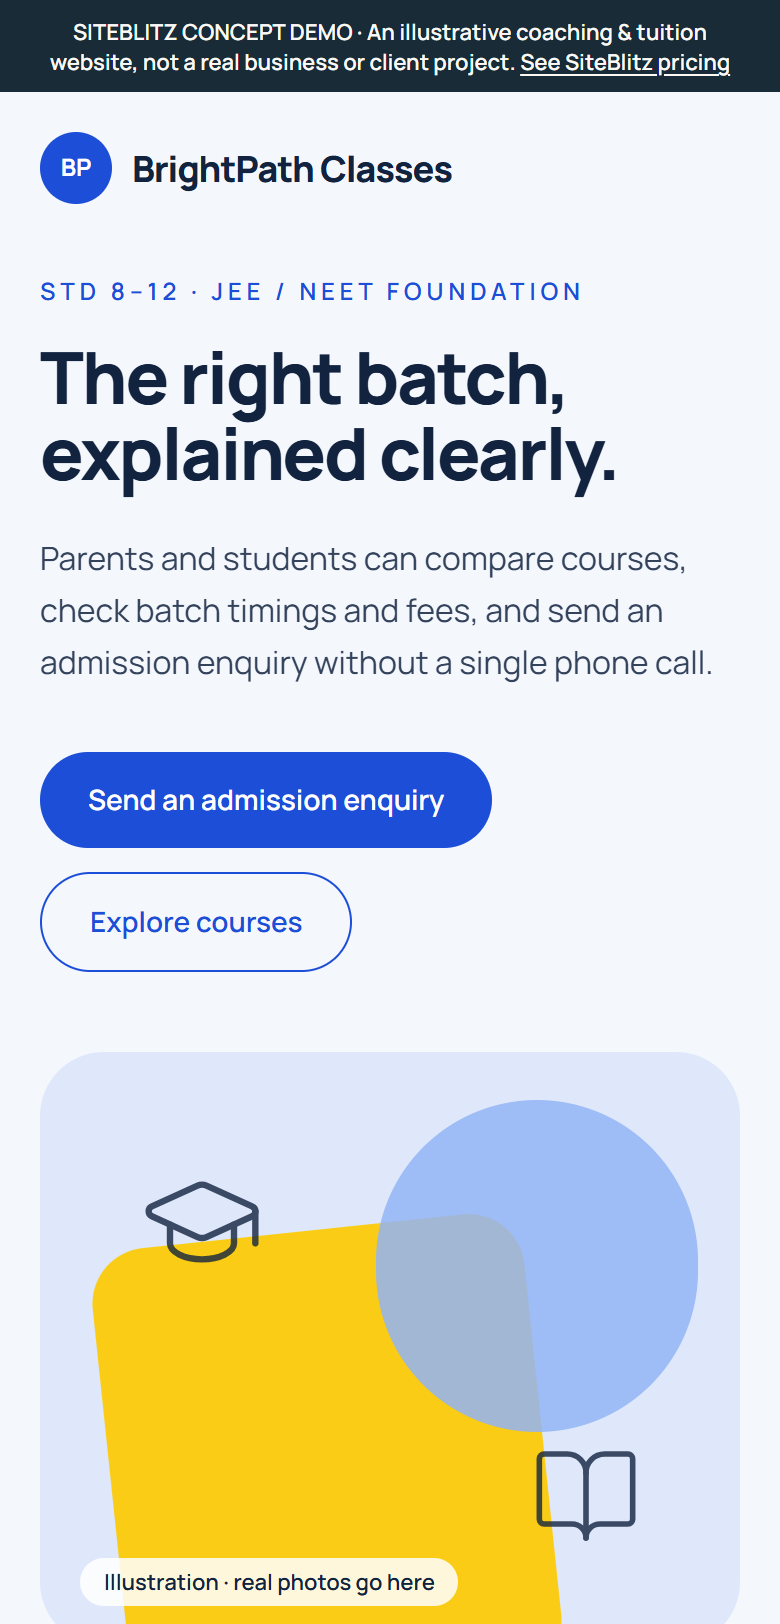
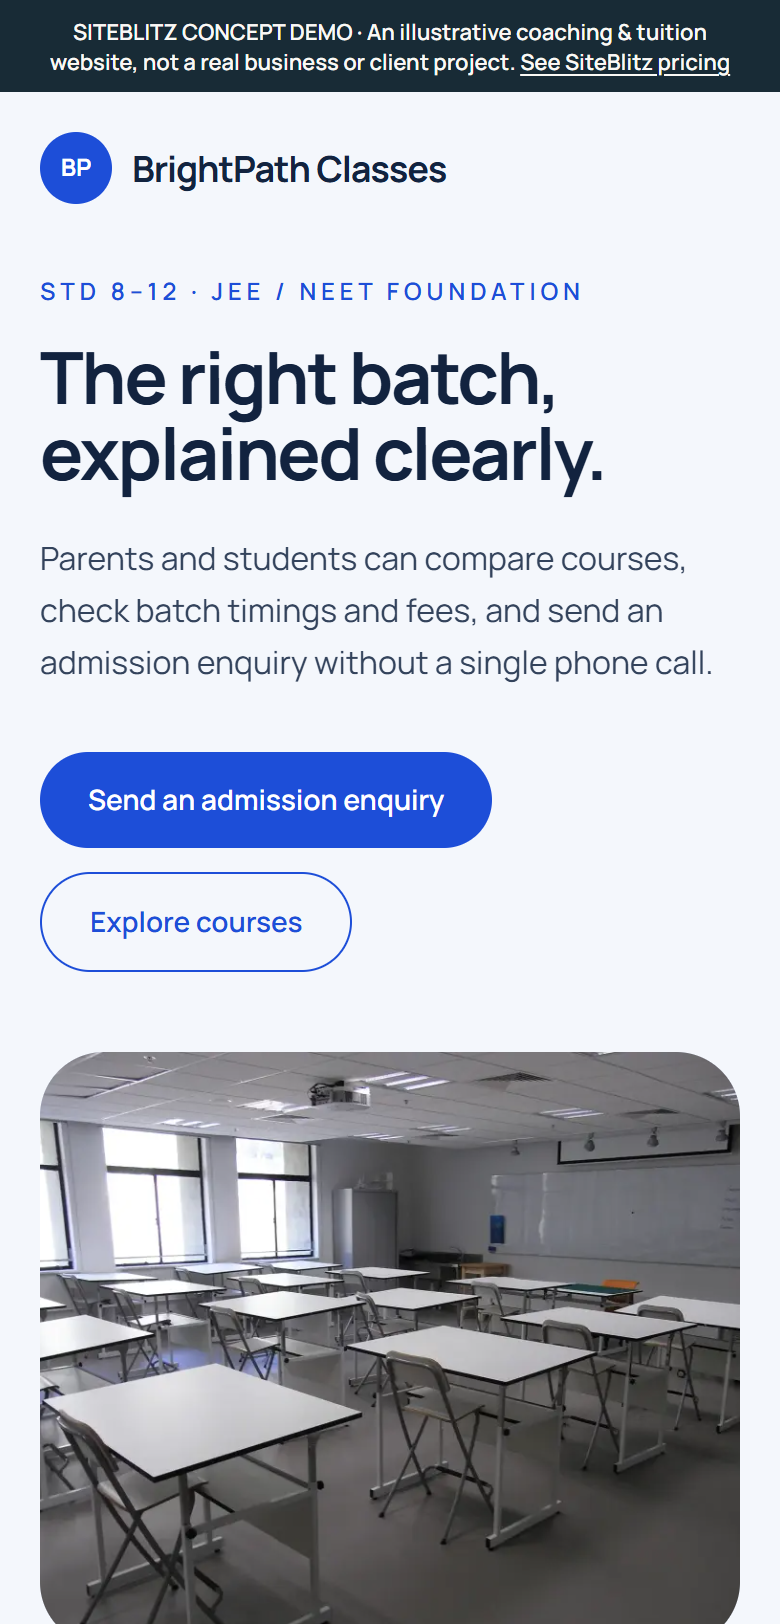
demos: real licensed photographs replace the illustration slots; credits line; new demo screenshots

diff --git a/src/components/demo/DemoSite.tsx b/src/components/demo/DemoSite.tsx
@@ -1,21 +1,20 @@
+import Image from "next/image";
 import Link from "next/link";
-import { BookOpen, CalendarClock, GraduationCap, Lamp, MapPin, Scissors, Sofa, Sparkles } from "lucide-react";
+import { CalendarClock, MapPin } from "lucide-react";
 import type { Demo } from "@/lib/demos";
+import { PHOTOS } from "@/lib/photos";
 import { SITE } from "@/lib/site";
 import { FROM_PRICE, inr } from "@/lib/offer";
+import { PhotoCredits } from "@/components/site/PhotoCredits";
 import { DemoEnquiry } from "./DemoEnquiry";
-
-const ART = {
-  salon: [Scissors, Sparkles],
-  coaching: [GraduationCap, BookOpen],
-  showroom: [Sofa, Lamp],
-} as const;
 
 /** One fictional business website, rendered from src/lib/demos.ts. Deliberately not wrapped in the
  *  SiteBlitz Shell: it must look like a client's own site, with SiteBlitz present only in the ribbon
- *  and the closing call to action. */
+ *  and the closing call to action. Photographs are licensed stand-ins (src/lib/photos.ts), never the
+ *  fictional business's own premises. */
 export function DemoSite({ demo }: { demo: Demo }) {
-  const [IconA, IconB] = ART[demo.id];
+  const hero = PHOTOS[demo.photo];
+  const detail = PHOTOS[demo.detailPhoto];
   return (
     <div className={`${demo.theme} demo-root min-h-screen`}>
       <div className="demo-ribbon sticky top-0 z-50 px-4 py-2 text-center text-[11px] font-semibold leading-snug sm:text-xs">
@@ -52,14 +51,16 @@ export function DemoSite({ demo }: { demo: Demo }) {
             </a>
           </div>
         </div>
-        <div className="demo-art relative aspect-[4/3.4] overflow-hidden rounded-[2rem]" aria-hidden>
-          <div className="demo-art-shape-a absolute" />
-          <div className="demo-art-shape-b absolute" />
-          <IconA className="demo-art-icon absolute left-[14%] top-[18%] h-16 w-16 md:h-20 md:w-20" strokeWidth={1.2} />
-          <IconB className="demo-art-icon absolute bottom-[16%] right-[14%] h-14 w-14 md:h-16 md:w-16" strokeWidth={1.2} />
-          <span className="demo-art-label absolute bottom-5 left-5 rounded-full px-3 py-1 text-[11px] font-semibold">
-            Illustration · real photos go here
-          </span>
+        <div className="demo-photo relative aspect-[4/3.4] overflow-hidden rounded-[2rem]">
+          {/* Eager + priority: this frame is the demo's first impression and the screenshot source for the home page */}
+          <Image
+            src={hero.src}
+            alt={hero.alt}
+            fill
+            priority
+            sizes="(min-width: 768px) 45vw, 100vw"
+            className="object-cover"
+          />
         </div>
       </section>
 
@@ -84,15 +85,20 @@ export function DemoSite({ demo }: { demo: Demo }) {
         </div>
       </section>
 
-      <section className="mx-auto max-w-6xl px-5 py-14 md:px-8 md:py-20">
-        <h2 className="demo-heading text-2xl md:text-3xl">{demo.highlightsTitle}</h2>
-        <div className="mt-8 grid gap-4 md:grid-cols-3">
-          {demo.highlights.map((h) => (
-            <div key={h.label} className="demo-soft rounded-2xl p-5">
-              <p className="font-bold">{h.label}</p>
-              <p className="mt-1.5 text-sm leading-relaxed opacity-85">{h.value}</p>
-            </div>
-          ))}
+      <section className="mx-auto grid max-w-6xl items-center gap-10 px-5 py-14 md:grid-cols-[1fr_1.1fr] md:px-8 md:py-20">
+        <div className="demo-photo relative aspect-[4/3] overflow-hidden rounded-[2rem]">
+          <Image src={detail.src} alt={detail.alt} fill sizes="(min-width: 768px) 45vw, 100vw" className="object-cover" />
+        </div>
+        <div>
+          <h2 className="demo-heading text-2xl md:text-3xl">{demo.highlightsTitle}</h2>
+          <div className="mt-8 grid gap-4">
+            {demo.highlights.map((h) => (
+              <div key={h.label} className="demo-soft rounded-2xl p-5">
+                <p className="font-bold">{h.label}</p>
+                <p className="mt-1.5 text-sm leading-relaxed opacity-85">{h.value}</p>
+              </div>
+            ))}
+          </div>
         </div>
       </section>
 
@@ -151,6 +157,7 @@ export function DemoSite({ demo }: { demo: Demo }) {
       <footer className="px-5 py-8 text-center text-xs opacity-75 md:px-8">
         SiteBlitz concept demonstration. {demo.brand} is not a real business; no products, services or appointments
         are offered through this page. <Link href="/" className="underline">Return to SiteBlitz</Link>
+        <PhotoCredits ids={[demo.photo, demo.detailPhoto]} className="mt-2" />
       </footer>
     </div>
   );

diff --git a/src/lib/photos.ts b/src/lib/photos.ts
@@ -1,0 +1,101 @@
+/**
+ * Every photograph on the public site, with its licence and credit (spec: docs/spec/redesign-v3-motion.md).
+ * All are Wikimedia Commons STAND-INS: licensed photographs of the kind of place, never presented as a
+ * SiteBlitz client or as a real business shown in a demo. Replace them with commissioned or owner photos
+ * when available; keep the credit line in sync (CC BY / CC BY-SA require author + licence + source).
+ */
+
+export type PhotoId =
+  | "heroShop"
+  | "salonInterior"
+  | "salonBasin"
+  | "coachingClassroom"
+  | "coachingChairs"
+  | "showroomInterior"
+  | "showroomDining";
+
+export interface Photo {
+  src: string;
+  width: number;
+  height: number;
+  /** written for this site; the Commons titles name other people's places */
+  alt: string;
+  author: string;
+  licence: "CC0" | "CC BY 2.0" | "CC BY-SA 3.0" | "CC BY-SA 4.0";
+  source: string;
+}
+
+export const PHOTOS: Record<PhotoId, Photo> = {
+  heroShop: {
+    src: "/photos/hero-textile-shop.webp",
+    width: 1920,
+    height: 1280,
+    alt: "Shelves of folded printed cotton fabric in a local textile shop",
+    author: "Ninara",
+    licence: "CC BY 2.0",
+    source: "https://commons.wikimedia.org/wiki/File:Textile_shop_in_Jaipur.jpg",
+  },
+  salonInterior: {
+    src: "/photos/salon-interior.webp",
+    width: 1600,
+    height: 900,
+    alt: "A bright hair salon with tan styling chairs, mirrors and a wooden floor",
+    author: "Daderot",
+    licence: "CC0",
+    source: "https://commons.wikimedia.org/wiki/File:Hair_salon_-_Arlington,_MA.jpg",
+  },
+  salonBasin: {
+    src: "/photos/salon-basin.webp",
+    width: 1600,
+    height: 1200,
+    alt: "A black hair-wash basin at a salon",
+    author: "johnrosman",
+    licence: "CC BY 2.0",
+    source: "https://commons.wikimedia.org/wiki/File:Inside_the_Hair_Salon_(5577833869).jpg",
+  },
+  coachingClassroom: {
+    src: "/photos/coaching-classroom.webp",
+    width: 1600,
+    height: 1200,
+    alt: "An empty classroom with white desks, folding chairs and a whiteboard",
+    author: "Sasa 38300",
+    licence: "CC BY-SA 3.0",
+    source:
+      "https://commons.wikimedia.org/wiki/File:HK_292_Tai_Po_Road_SCAD_Hong_Kong_classroom_interior_high_table_chairs_April-2012.JPG",
+  },
+  coachingChairs: {
+    src: "/photos/coaching-chairs.webp",
+    width: 1600,
+    height: 1200,
+    alt: "A study room after class, chairs stacked on the tables by the window",
+    author: "Yitzilitt",
+    licence: "CC BY-SA 4.0",
+    source: "https://commons.wikimedia.org/wiki/File:Empty_classroom_with_chairs_on_table_in_Har_Nof.jpg",
+  },
+  showroomInterior: {
+    src: "/photos/showroom-interior.webp",
+    width: 1600,
+    height: 1018,
+    alt: "A furniture showroom with sofas, a dining set and lamps on display",
+    author: "Downtowngal",
+    licence: "CC BY-SA 4.0",
+    source: "https://commons.wikimedia.org/wiki/File:Furniture_store_interior.jpg",
+  },
+  showroomDining: {
+    src: "/photos/showroom-dining.webp",
+    width: 1600,
+    height: 1066,
+    alt: "A round wooden dining table with upholstered chairs beside a lit glass cabinet",
+    author: "Shixart1985",
+    licence: "CC BY 2.0",
+    source: "https://commons.wikimedia.org/wiki/File:Dining_area_with_wooden_table_and_chairs_in_a_bright_room.jpg",
+  },
+};
+
+/** The ids a page shows, in order, so its footer credits exactly those. */
+export const SITE_PHOTO_IDS: readonly PhotoId[] = [
+  "heroShop",
+  "salonInterior",
+  "coachingClassroom",
+  "showroomInterior",
+];

diff --git a/src/app/globals.css b/src/app/globals.css
@@ -356,7 +356,8 @@ body {
   --demo-bg: #f4f7fc; --demo-ink: #12233f; --demo-accent: #1d4ed8; --demo-soft: #e4ebf8;
   --demo-card: #ffffff; --demo-art-a: #facc15; --demo-art-b: #93b4f5; --demo-art-bg: #dfe8fa;
 }
-.demo-coaching .demo-heading { font-family: var(--font-display); font-weight: 800; letter-spacing: -0.03em; }
+/* the demo is a different client's brand: its own sans heading, never SiteBlitz's display face */
+.demo-coaching .demo-heading { font-family: var(--font-body); font-weight: 700; letter-spacing: -0.03em; }
 .demo-showroom {
   --demo-bg: #f6f2ec; --demo-ink: #2a2420; --demo-accent: #7a4e2d; --demo-soft: #ece3d7;
   --demo-card: #fffdf9; --demo-art-a: #c9a27e; --demo-art-b: #8c6a4f; --demo-art-bg: #e6dccd;
@@ -380,16 +381,10 @@ body {
 .demo-option:hover:not(:disabled) { border-color: var(--demo-accent); }
 .demo-option.is-selected { border-color: var(--demo-accent); background: var(--demo-card); box-shadow: inset 0 0 0 1px var(--demo-accent); }
 
-/* hero illustration: original CSS shapes + line icons, no photos (no licensing questions) */
-.demo-art { background: var(--demo-art-bg); color: var(--demo-ink); }
-.demo-art-shape-a { width: 62%; height: 78%; left: 10%; bottom: -8%; border-radius: 999px 999px 24px 24px; background: var(--demo-art-a); }
-.demo-art-shape-b { width: 46%; height: 56%; right: 6%; top: 8%; border-radius: 28px; background: var(--demo-art-b); opacity: 0.85; }
-.demo-coaching .demo-art-shape-a { border-radius: 28px; transform: rotate(-6deg); }
-.demo-coaching .demo-art-shape-b { border-radius: 999px; }
-.demo-showroom .demo-art-shape-a { border-radius: 24px 24px 8px 8px; height: 46%; width: 74%; left: 13%; bottom: 10%; }
-.demo-showroom .demo-art-shape-b { width: 30%; height: 64%; right: 10%; top: 6%; border-radius: 999px 999px 8px 8px; }
-.demo-art-icon { color: var(--demo-ink); opacity: 0.8; }
-.demo-art-label { background: rgba(255, 255, 255, 0.85); color: var(--demo-ink); }
+/* demo photographs: licensed stand-ins (src/lib/photos.ts); the ground shows while the image decodes */
+.demo-photo { background: var(--demo-art-bg); }
+.demo-photo img { transition: transform 0.6s cubic-bezier(0.22, 1, 0.36, 1); }
+.demo-photo:hover img { transform: scale(1.03); }
 
 /* ==== SiteBlitz home: phone frame used by the live demo switcher ==== */
 .phone-frame {

diff --git a/src/lib/demos.ts b/src/lib/demos.ts
@@ -5,6 +5,8 @@
  * Sample prices are labelled as samples on the page.
  */
 
+import type { PhotoId } from "./photos";
+
 export type DemoId = "salon" | "coaching" | "showroom";
 
 export interface DemoItem {
@@ -21,6 +23,9 @@ export interface Demo {
   brand: string;
   brandMark: string;
   theme: string;
+  /** licensed stand-in photographs (src/lib/photos.ts): the hero and one detail */
+  photo: PhotoId;
+  detailPhoto: PhotoId;
   heroKicker: string;
   heroTitle: string;
   heroText: string;
@@ -53,6 +58,8 @@ export const DEMOS: Record<DemoId, Demo> = {
     brand: "Rose & Comb",
     brandMark: "R&C",
     theme: "demo-salon",
+    photo: "salonInterior",
+    detailPhoto: "salonBasin",
     heroKicker: "Hair · Skin · Bridal",
     heroTitle: "A little time, just for you.",
     heroText:
@@ -92,6 +99,8 @@ export const DEMOS: Record<DemoId, Demo> = {
     brand: "BrightPath Classes",
     brandMark: "BP",
     theme: "demo-coaching",
+    photo: "coachingClassroom",
+    detailPhoto: "coachingChairs",
     heroKicker: "Std 8–12 · JEE / NEET foundation",
     heroTitle: "The right batch, explained clearly.",
     heroText:
@@ -131,6 +140,8 @@ export const DEMOS: Record<DemoId, Demo> = {
     brand: "Oakline Furnishings",
     brandMark: "OF",
     theme: "demo-showroom",
+    photo: "showroomInterior",
+    detailPhoto: "showroomDining",
     heroKicker: "Furniture · Décor · Custom orders",
     heroTitle: "See the collection before you visit.",
     heroText:

diff --git a/src/components/site/PhotoCredits.tsx b/src/components/site/PhotoCredits.tsx
@@ -1,0 +1,22 @@
+import { PHOTOS, type PhotoId } from "@/lib/photos";
+
+/** The one credit line for the photographs a page shows (CC BY / CC BY-SA need author, licence and source). */
+export function PhotoCredits({ ids, className = "" }: { ids: readonly PhotoId[]; className?: string }) {
+  return (
+    <p className={className}>
+      Photographs (Wikimedia Commons):{" "}
+      {ids.map((id, i) => {
+        const p = PHOTOS[id];
+        return (
+          <span key={id}>
+            <a href={p.source} target="_blank" rel="noopener noreferrer" className="underline underline-offset-2">
+              {p.author}
+            </a>
+            , {p.licence}
+            {i < ids.length - 1 ? " · " : "."}
+          </span>
+        );
+      })}
+    </p>
+  );
+}
